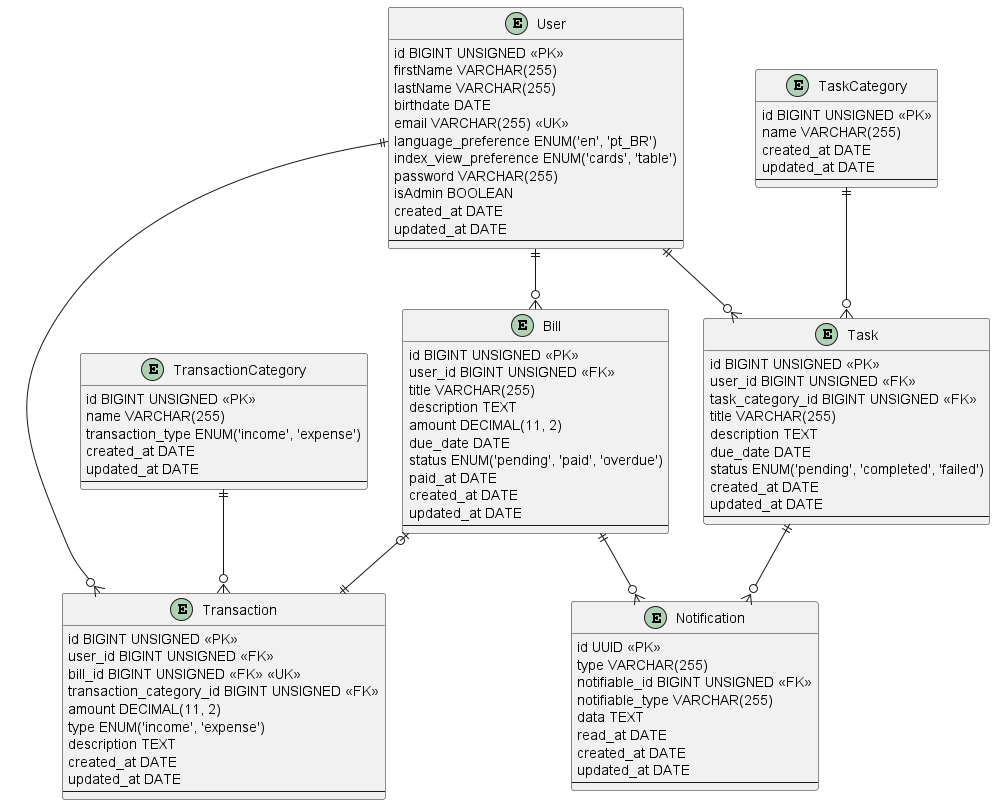
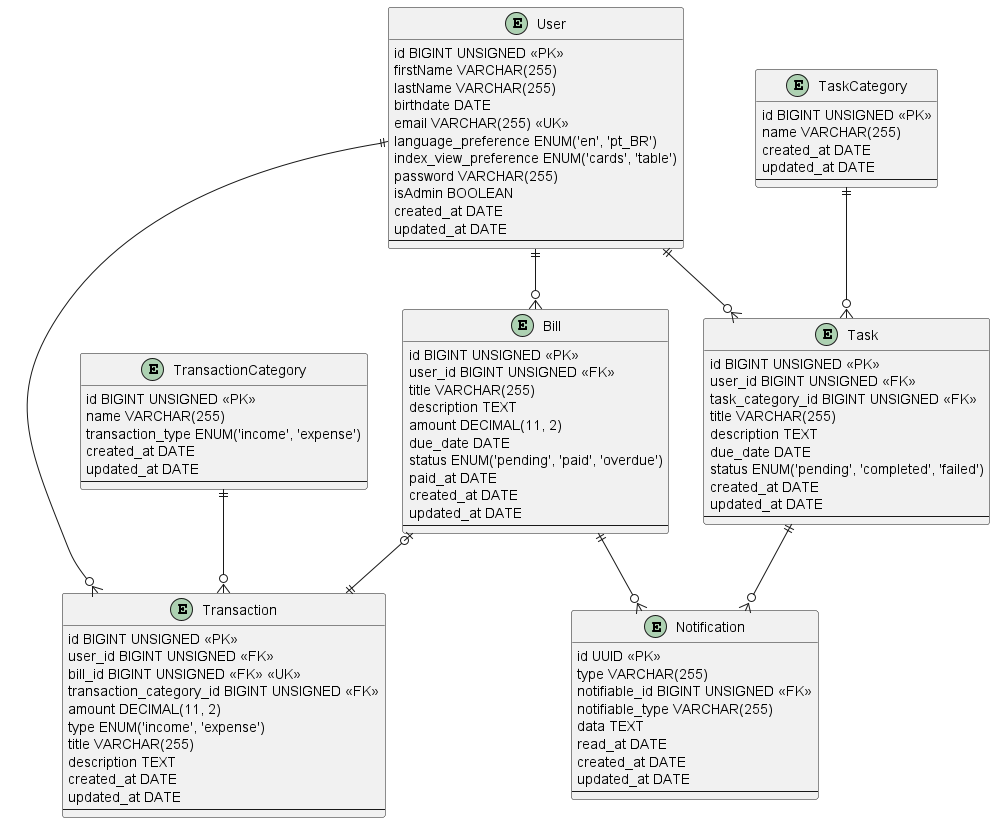
feat: add title attribute and make description nullable in transactions
to enforce consistency, now transactions have both title and description fields.

diff --git a/resources/views/transactions/edit.blade.php b/resources/views/transactions/edit.blade.php
@@ -1,7 +1,7 @@
 <x-layout>
-    <div id="overlay" class="hidden fixed inset-0 z-10 cursor-pointer"></div>
+    <div id="overlay" class="fixed inset-0 z-10 hidden cursor-pointer"></div>
 
-    <h2 class="absolute top-0 left-1/2 transform -translate-x-1/2 hidden" id="loading">Loading...</h2>
+    <h2 class="absolute top-0 hidden transform -translate-x-1/2 left-1/2" id="loading">Loading...</h2>
 
     <div class="form-wrapper">
         <div class="flex justify-center">
@@ -15,6 +15,14 @@
             @method('PUT')
 
             <fieldset>
+                <div class="form-group">
+                    <label for="title">Title:</label>
+                    <input type="text" name="title" placeholder="Title"
+                        value="{{ old('title', $transaction->title) }}">
+                    @error('title')
+                        <p>{{ $message }}</p>
+                    @enderror
+                </div>
                 <div class="form-group">
                     <label for="amount">Amount:</label>
                     <input type="text" name="amount" placeholder="Amount"
@@ -90,4 +98,3 @@
         </script>
     </div>
 </x-layout>
-

diff --git a/resources/views/transactions/show.blade.php b/resources/views/transactions/show.blade.php
@@ -38,7 +38,10 @@
             </div>
 
             <div class="flex flex-col gap-3 [&>div>span]:text-tertiary-txt">
-
+                <div class="flex gap-2">
+                    <span>Title:</span>
+                    <div>{{ $transaction->title }}</div>
+                </div>
                 <div class="flex gap-2">
                     <span>Amount:</span>
                     <div>{{ $transaction->amount }}</div>
@@ -59,7 +62,6 @@
                     <div>{{ $transaction->created_at->format('m-d-Y') }}</div>
                 </div>
             </div>
-
         </div>
     </div>
 </x-app-layout>

diff --git a/resources/views/transactions/create.blade.php b/resources/views/transactions/create.blade.php
@@ -15,6 +15,13 @@
 
             <fieldset>
                 <div class="form-group">
+                    <label for="title">{{ __('Title') }}:</label>
+                    <input type="text" name="title" value="{{ old('title') }}">
+                    @error('title')
+                        <p>{{ $message }}</p>
+                    @enderror
+                </div>
+                <div class="form-group">
                     <label for="amount">{{ __('Amount:') }}</label>
                     <input type="text" name="amount" value="{{ old('amount') }}">
                     @error('amount')

diff --git a/database/migrations/2024_05_20_142255_create_transactions_table.php b/database/migrations/2024_05_20_142255_create_transactions_table.php
@@ -14,7 +14,8 @@ return new class extends Migration {
             $table->unsignedBigInteger('transaction_category_id')->nullable();
             $table->decimal('amount', 11, 2);
             $table->enum('type', ['income', 'expense'])->default('expense');
-            $table->text('description');
+            $table->string('title');
+            $table->text('description')->nullable();
             $table->timestamps();
 
             $table

diff --git a/database/factories/TransactionFactory.php b/database/factories/TransactionFactory.php
@@ -43,7 +43,9 @@ class TransactionFactory extends Factory
             'transaction_category_id' => $randomCategoryId,
             'amount' => $this->faker->numberBetween(1, 1000),
             'type' => $type,
+            'title' => $this->faker->sentence(random_int(1, 3)),
             'description' => $this->faker->sentence,
+            'created_at' => $this->faker->date(),
         ];
     }
 }

diff --git a/app/Http/Requests/Transaction/TransactionStoreRequest.php b/app/Http/Requests/Transaction/TransactionStoreRequest.php
@@ -34,7 +34,8 @@ class TransactionStoreRequest extends FormRequest
             ],
             'amount' => 'required|numeric',
             'type' => 'string|in:income,expense',
-            'description' => 'required|string|max:65535',
+            'title' => 'required|string|max:255',
+            'description' => 'nullable|string|max:65535',
         ];
     }
 }

diff --git a/app/Http/Requests/Transaction/TransactionUpdateRequest.php b/app/Http/Requests/Transaction/TransactionUpdateRequest.php
@@ -37,6 +37,8 @@ class TransactionUpdateRequest extends FormRequest
             'amount' => 'numeric',
             'type' => 'string|in:income,expense',
             'description' => 'string|max:65535',
+            'title' => 'nullable|string|max:255',
+            'description' => 'nullable|string|max:65535',
         ];
     }
 }

diff --git a/app/Models/Transaction.php b/app/Models/Transaction.php
@@ -16,6 +16,7 @@ class Transaction extends Model
 
     protected $fillable = [
         'amount',
+        'title',
         'description',
         'type',
         'transaction_category_id',
